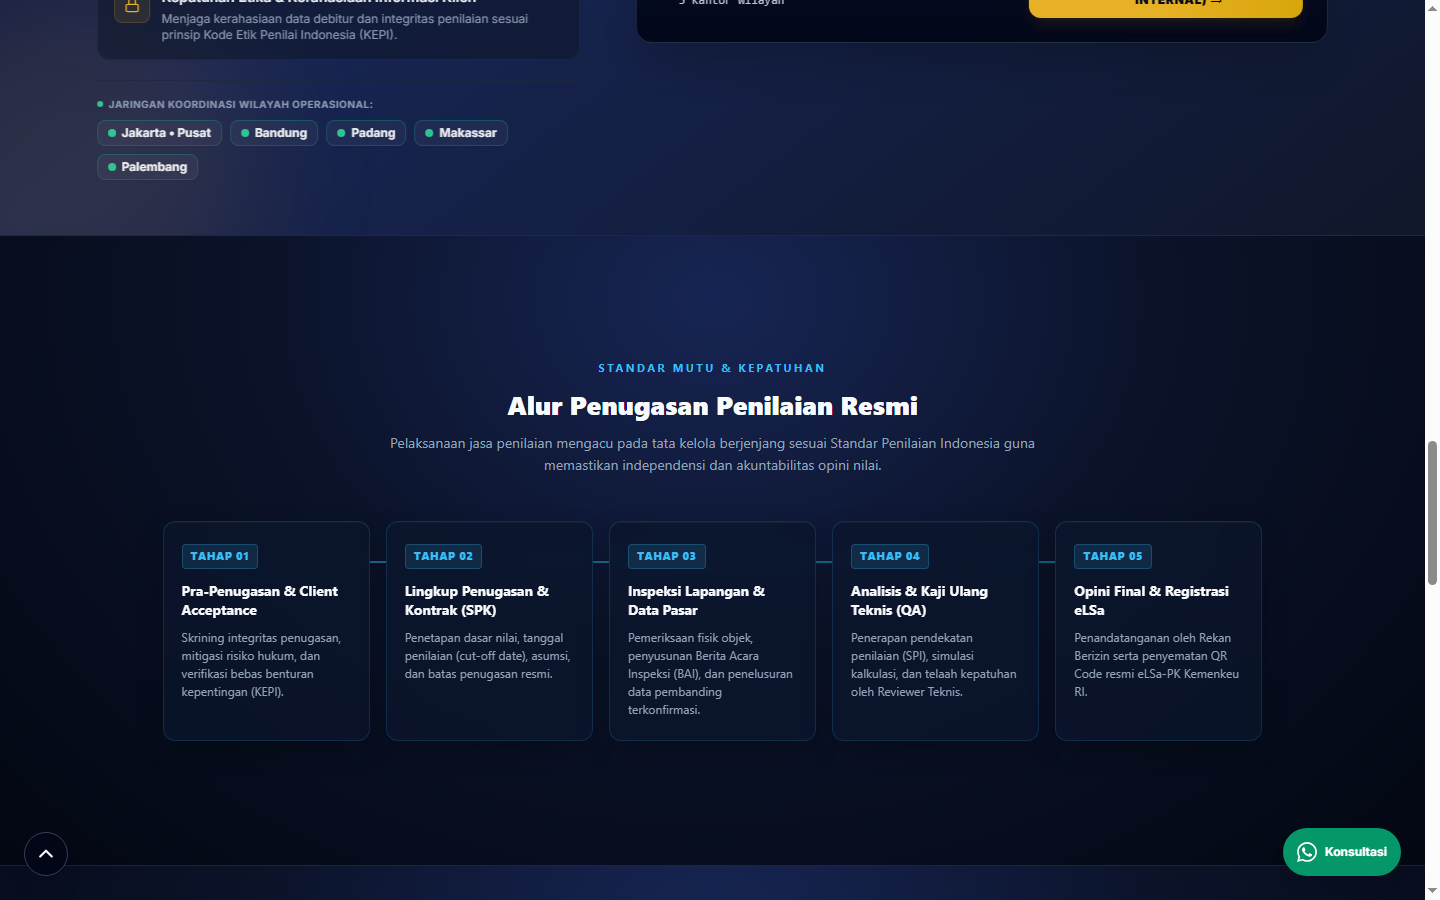
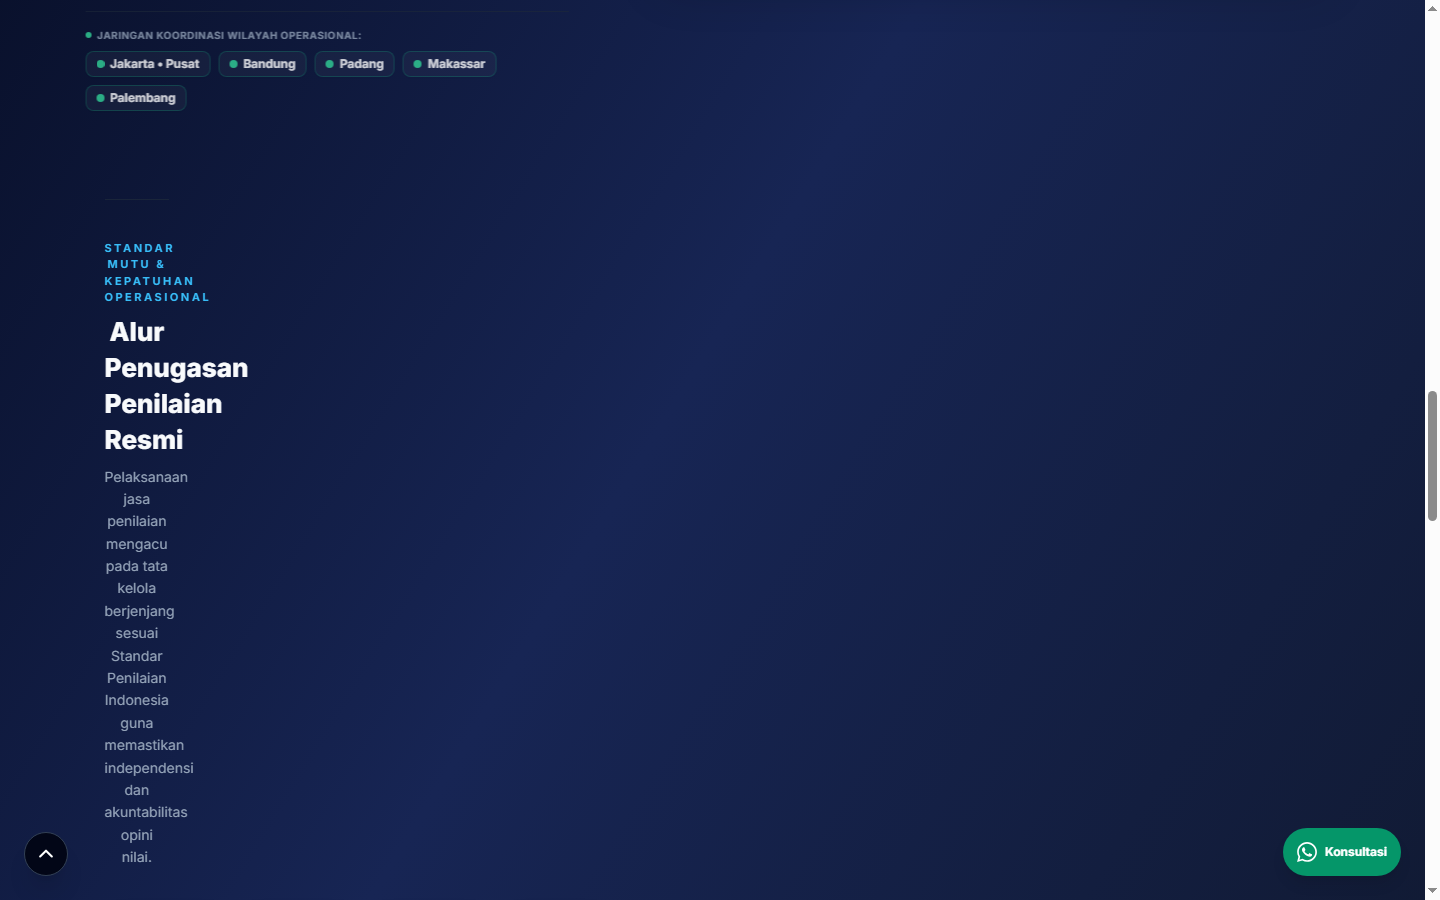
feat(compro): optimize hero urgency, align alur-penugasan-sop with OPINI NSR mutu, and add eLSa QR security accent on Tahap 05

diff --git a/index.html b/index.html
@@ -1639,26 +1639,29 @@
 
           </nav>
 
-          <!-- Action Buttons Bar: Kontak & Portal Internal Eksklusif -->
-          <div class="flex items-center gap-3 shrink-0">
+          <!-- Action Buttons Bar: Kontak, CTA Penawaran & Portal Internal [SOP] -->
+          <div class="flex items-center gap-2.5 sm:gap-3 shrink-0">
+            <!-- CTA Primer Pengunjung Eksternal: Minta Proposal & Penawaran -->
+            <button onclick="bukaModal('modal-rfp')" class="inline-flex items-center gap-1.5 px-3.5 py-2 rounded-lg bg-gradient-to-r from-amber-400 via-amber-500 to-yellow-500 hover:from-amber-300 hover:to-yellow-400 text-slate-950 text-xs font-black shadow-md shadow-amber-500/25 hover:shadow-lg hover:shadow-amber-400/40 hover:scale-[1.02] active:scale-[0.98] transition-all duration-200 border border-amber-300/80 shrink-0 whitespace-nowrap cursor-pointer" title="Minta Proposal &amp; Penawaran Penilaian Resmi">
+              <span>Minta Penawaran</span>
+              <svg class="w-3.5 h-3.5 text-slate-950 shrink-0" fill="none" stroke="currentColor" viewBox="0 0 24 24"><path stroke-linecap="round" stroke-linejoin="round" stroke-width="2.5" d="M14 5l7 7m0 0l-7 7m7-7H3"/></svg>
+            </button>
             <!-- Tombol Menu Lacak Penugasan (Aksen Amber Elegan) -->
-            <a href="#lacak-penugasan" onclick="scrollKeLacakPenugasan(event)" class="inline-flex items-center gap-1.5 px-3 py-2 rounded-lg bg-amber-500/10 hover:bg-amber-500/20 text-amber-400 hover:text-amber-300 border border-amber-500/30 hover:border-amber-400/50 transition-all text-xs font-bold tracking-wide group shadow-sm shadow-amber-500/10 cursor-pointer" title="Lacak Progres Penugasan Penilaian 7 Milestone">
+            <a href="#lacak-penugasan" onclick="scrollKeLacakPenugasan(event)" class="hidden md:inline-flex items-center gap-1.5 px-3 py-2 rounded-lg bg-amber-500/10 hover:bg-amber-500/20 text-amber-400 hover:text-amber-300 border border-amber-500/30 hover:border-amber-400/50 transition-all text-xs font-bold tracking-wide group shadow-sm shadow-amber-500/10 cursor-pointer" title="Lacak Progres Penugasan Penilaian 7 Milestone">
               <svg class="w-3.5 h-3.5 text-amber-400 group-hover:scale-110 transition-transform" fill="none" viewBox="0 0 24 24" stroke="currentColor"><path stroke-linecap="round" stroke-linejoin="round" stroke-width="2.5" d="M21 21l-6-6m2-5a7 7 0 11-14 0 7 7 0 0114 0z"/></svg>
               <span>Lacak Penugasan</span>
             </a>
-            <a href="#kontak" class="px-3 py-2 rounded-lg text-slate-300 hover:text-white hover:bg-slate-800/70 transition text-xs font-semibold">
+            <a href="#kontak" class="hidden sm:inline-block px-2.5 py-2 rounded-lg text-slate-300 hover:text-white hover:bg-slate-800/70 transition text-xs font-semibold">
               Kontak
             </a>
+            <!-- Tombol Utilitas Portal Internal Staff [SOP] (Tenang, Profesional & Terarah) -->
             <button onclick="bukaModalPortal()" 
-              class="relative inline-flex items-center gap-2 px-4 py-2 rounded-lg bg-gradient-to-r from-amber-400 via-amber-300 to-yellow-400 hover:from-amber-300 hover:to-yellow-300 text-slate-950 text-xs font-black shadow-md shadow-amber-500/25 hover:shadow-lg hover:shadow-amber-400/40 hover:scale-[1.02] active:scale-[0.98] transition-all duration-200 border border-amber-300/80 shrink-0 whitespace-nowrap group cursor-pointer" 
+              class="inline-flex items-center gap-1.5 px-2.5 py-2 rounded-lg bg-slate-900/90 hover:bg-slate-800 text-slate-300 hover:text-white border border-slate-700/80 hover:border-slate-600 text-xs font-medium transition shrink-0 whitespace-nowrap cursor-pointer" 
               title="Portal Internal, Dokumen Mutu, Nolap, Kwitansi &amp; SOP Cabang KJPP NSR">
-              <span class="relative flex h-2 w-2 shrink-0">
-                <span class="animate-ping absolute inline-flex h-full w-full rounded-full bg-emerald-600 opacity-75"></span>
-                <span class="relative inline-flex rounded-full h-2 w-2 bg-emerald-700"></span>
-              </span>
-              <svg class="w-3.5 h-3.5 text-slate-950 shrink-0 group-hover:rotate-12 transition-transform duration-200" xmlns="http://www.w3.org/2000/svg" viewBox="0 0 24 24" fill="none" stroke="currentColor" stroke-width="2.5" stroke-linecap="round" stroke-linejoin="round"><rect width="18" height="11" x="3" y="11" rx="2" ry="2"/><path d="M7 11V7a5 5 0 0 1 10 0v4"/></svg>
-              <span class="tracking-wide">OPINI NSR</span>
-              <span class="inline-flex items-center px-1.5 py-0.5 text-[9px] font-black uppercase rounded bg-slate-950/15 text-slate-950 tracking-tight">SOP</span>
+              <svg class="w-3.5 h-3.5 text-slate-400" xmlns="http://www.w3.org/2000/svg" viewBox="0 0 24 24" fill="none" stroke="currentColor" stroke-width="2" stroke-linecap="round" stroke-linejoin="round"><rect width="18" height="11" x="3" y="11" rx="2" ry="2"/><path d="M7 11V7a5 5 0 0 1 10 0v4"/></svg>
+              <span class="hidden xl:inline">Portal Internal</span>
+              <span class="inline xl:hidden">Portal</span>
+              <span class="inline-flex items-center px-1.5 py-0.2 text-[9px] font-bold uppercase rounded bg-slate-800 text-amber-300 border border-amber-400/30">SOP</span>
             </button>
           </div>
 
@@ -1739,16 +1742,16 @@
         </div>
       </div>
 
-      <!-- Quick Action Buttons: Portal Internal & Kontak -->
+      <!-- Quick Action Buttons: CTA Penawaran, Portal Internal [SOP] & Kontak -->
       <div class="pt-2 space-y-2">
-        <button type="button" onclick="bukaModalPortal(); toggleMobileMenu();" class="w-full py-2.5 px-4 rounded-xl bg-gradient-to-r from-amber-400 via-amber-300 to-yellow-400 text-slate-950 font-black text-center flex items-center justify-center gap-2 shadow-md shadow-amber-500/20 active:scale-[0.98] transition cursor-pointer">
-          <span class="relative flex h-2 w-2 shrink-0">
-            <span class="animate-ping absolute inline-flex h-full w-full rounded-full bg-emerald-600 opacity-75"></span>
-            <span class="relative inline-flex rounded-full h-2 w-2 bg-emerald-700"></span>
-          </span>
-          <svg class="w-4 h-4 text-slate-950 shrink-0" xmlns="http://www.w3.org/2000/svg" viewBox="0 0 24 24" fill="none" stroke="currentColor" stroke-width="2.5" stroke-linecap="round" stroke-linejoin="round"><rect width="18" height="11" x="3" y="11" rx="2" ry="2"/><path d="M7 11V7a5 5 0 0 1 10 0v4"/></svg>
-          <span class="tracking-wide">OPINI NSR &bull; Portal Internal</span>
+        <button type="button" onclick="bukaModal('modal-rfp'); toggleMobileMenu();" class="w-full py-2.5 px-4 rounded-xl bg-gradient-to-r from-amber-400 via-amber-500 to-yellow-500 text-slate-950 font-black text-center flex items-center justify-center gap-2 shadow-md shadow-amber-500/20 active:scale-[0.98] transition cursor-pointer">
+          <svg class="w-4 h-4 text-slate-950 shrink-0" fill="none" stroke="currentColor" viewBox="0 0 24 24"><path stroke-linecap="round" stroke-linejoin="round" stroke-width="2.5" d="M14 5l7 7m0 0l-7 7m7-7H3"/></svg>
+          <span class="tracking-wide">Minta Proposal &amp; Penawaran</span>
           <span class="inline-flex items-center px-1.5 py-0.5 text-[10px] font-black uppercase rounded bg-slate-950/15 text-slate-900">&rarr;</span>
+        </button>
+        <button type="button" onclick="bukaModalPortal(); toggleMobileMenu();" class="w-full py-2 px-4 rounded-xl bg-slate-900 hover:bg-slate-800 text-slate-200 font-semibold text-center flex items-center justify-center gap-2 border border-slate-700/80 active:scale-[0.98] transition cursor-pointer">
+          <svg class="w-4 h-4 text-slate-400 shrink-0" xmlns="http://www.w3.org/2000/svg" viewBox="0 0 24 24" fill="none" stroke="currentColor" stroke-width="2" stroke-linecap="round" stroke-linejoin="round"><rect width="18" height="11" x="3" y="11" rx="2" ry="2"/><path d="M7 11V7a5 5 0 0 1 10 0v4"/></svg>
+          <span>Portal Internal [SOP &amp; Mutu]</span>
         </button>
         <a href="#lacak-penugasan" onclick="scrollKeLacakPenugasan(event); toggleMobileMenu();" class="w-full py-2.5 px-4 rounded-xl bg-amber-500/15 text-amber-300 hover:bg-amber-500/25 border border-amber-500/40 font-bold text-center flex items-center justify-center gap-2 active:scale-[0.98] transition cursor-pointer">
           <svg class="w-4 h-4 text-amber-400" fill="none" viewBox="0 0 24 24" stroke="currentColor"><path stroke-linecap="round" stroke-linejoin="round" stroke-width="2.5" d="M21 21l-6-6m2-5a7 7 0 11-14 0 7 7 0 0114 0z"/></svg>
@@ -1817,7 +1820,7 @@
               <polyline points="7 10 12 15 17 10"/>
               <line x1="12" x1="12" y1="15" y2="3"/>
             </svg>
-            <span>Unduh Company Profile</span>
+            <span>Unduh Compro (PDF)</span>
           </a>
           <a href="/portofolio-rekanan.html" id="hero-btn-portofolio" class="group inline-flex items-center gap-1.5 px-3 py-2.5 text-slate-300 hover:text-sky-300 font-semibold text-xs sm:text-sm transition" title="Buka Portofolio dan Rekanan KJPP NSR">
             <span>Lihat Portofolio</span>
@@ -2755,6 +2758,65 @@
             </div>
           </div>
         </div>
+
+        <!-- ==================== 1. ALUR PENUGASAN PENILAIAN RESMI (INTERACTIVE LINEAR PROCESS TRACK) ==================== -->
+        <div id="alur-penugasan-sop" aria-label="Standard Operating Procedure Alur Penugasan Penilaian Resmi" class="mt-12 pt-10 border-t border-slate-800/80 relative scroll-mt-20">
+          <div class="nsr-header-title text-center mb-10">
+            <span class="nsr-tagline text-[11px] uppercase tracking-[2.5px] text-sky-400 font-bold mb-2 block">Standar Mutu &amp; Kepatuhan Operasional</span>
+            <h3 class="nsr-title text-2xl sm:text-3xl text-white font-extrabold m-0">Alur Penugasan Penilaian Resmi</h3>
+            <p class="nsr-desc text-xs sm:text-sm text-slate-400 mt-2 max-w-2xl mx-auto leading-relaxed">Pelaksanaan jasa penilaian mengacu pada tata kelola berjenjang sesuai Standar Penilaian Indonesia guna memastikan independensi dan akuntabilitas opini nilai.</p>
+          </div>
+          
+          <div class="nsr-flow-track relative">
+            <!-- Animated gradient connector line on desktop -->
+            <div class="nsr-flow-line" aria-hidden="true"></div>
+
+            <div class="nsr-flow-grid">
+              <!-- Tahap 01 -->
+              <div class="nsr-flow-card">
+                <div class="nsr-flow-num">TAHAP 01</div>
+                <h4>Pra-Penugasan &amp; Client Acceptance</h4>
+                <p>Skrining integritas penugasan, mitigasi risiko hukum, dan verifikasi bebas benturan kepentingan (KEPI).</p>
+              </div>
+              <!-- Tahap 02 -->
+              <div class="nsr-flow-card">
+                <div class="nsr-flow-num">TAHAP 02</div>
+                <h4>Lingkup Penugasan &amp; Kontrak (SPK)</h4>
+                <p>Penetapan dasar nilai, tanggal penilaian (cut-off date), asumsi, dan batas penugasan resmi.</p>
+              </div>
+              <!-- Tahap 03 -->
+              <div class="nsr-flow-card">
+                <div class="nsr-flow-num">TAHAP 03</div>
+                <h4>Inspeksi Lapangan &amp; Data Pasar</h4>
+                <p>Pemeriksaan fisik objek, penyusunan Berita Acara Inspeksi (BAI), dan penelusuran data pembanding terkonfirmasi.</p>
+              </div>
+              <!-- Tahap 04 -->
+              <div class="nsr-flow-card">
+                <div class="nsr-flow-num">TAHAP 04</div>
+                <h4>Analisis &amp; Kaji Ulang Teknis (QA)</h4>
+                <p>Penerapan pendekatan penilaian (SPI), simulasi kalkulasi, dan telaah kepatuhan oleh Reviewer Teknis.</p>
+              </div>
+              <!-- Tahap 05: VERIFIKASI QR CODE eLSa-PK KEMENKEU (AKSEN KHUSUS ANTI-PEMALSUAN) -->
+              <div class="nsr-flow-card nsr-flow-card-secure">
+                <div class="flex items-center justify-between gap-1 mb-2">
+                  <div class="nsr-flow-num" style="color: #34d399; background: rgba(16, 185, 129, 0.15); border-color: rgba(16, 185, 129, 0.35); margin-bottom: 0;">TAHAP 05</div>
+                  <span class="inline-flex items-center gap-1 px-1.5 py-0.5 rounded text-[9px] font-black uppercase tracking-wider bg-emerald-500/20 text-emerald-300 border border-emerald-500/40">
+                    <span class="w-1.5 h-1.5 rounded-full bg-emerald-400 animate-pulse"></span>
+                    Anti-Pemalsuan
+                  </span>
+                </div>
+                <h4 style="color: #ecfdf5;">Opini Final &amp; Registrasi eLSa</h4>
+                <p style="color: #cbd5e1;">Penandatanganan oleh Rekan Berizin serta penyematan <strong>QR Code resmi eLSa-PK Kemenkeu RI</strong>.</p>
+                <div class="mt-3 pt-2.5 border-t border-emerald-500/25 flex items-center gap-1.5 text-[10px] font-bold text-emerald-300">
+                  <svg class="w-3.5 h-3.5 text-emerald-400 shrink-0" fill="none" viewBox="0 0 24 24" stroke="currentColor" stroke-width="2.5">
+                    <path stroke-linecap="round" stroke-linejoin="round" d="M9 12.75L11.25 15 15 9.75m-3-7.036A11.959 11.959 0 013.598 6 11.99 11.99 0 003 9.749c0 5.592 3.824 10.29 9 11.623 5.176-1.332 9-6.03 9-11.622 0-1.31-.21-2.571-.598-3.751h-.152c-3.196 0-6.1-1.248-8.25-3.285z" />
+                  </svg>
+                  <span>Verifikasi Keabsahan Statutori Kemenkeu RI</span>
+                </div>
+              </div>
+            </div>
+          </div>
+        </div>
       </div>
     </div>
   </div>
@@ -3324,6 +3386,16 @@
     transform: translateY(-5px); border-color: #38bdf8;
     box-shadow: 0 14px 34px -10px rgba(14, 165, 233, 0.3), inset 0 1px 0 rgba(255, 255, 255, 0.08);
   }
+  .nsr-flow-card.nsr-flow-card-secure {
+    background: linear-gradient(145deg, rgba(6, 78, 59, 0.5) 0%, rgba(11, 21, 44, 0.88) 55%, rgba(15, 23, 42, 0.95) 100%);
+    border: 1.5px solid rgba(16, 185, 129, 0.55);
+    box-shadow: 0 10px 30px -10px rgba(16, 185, 129, 0.35), inset 0 1px 0 rgba(255, 255, 255, 0.08);
+  }
+  .nsr-flow-card.nsr-flow-card-secure:hover {
+    transform: translateY(-5px);
+    border-color: #34d399;
+    box-shadow: 0 16px 36px -10px rgba(16, 185, 129, 0.5), inset 0 1px 0 rgba(255, 255, 255, 0.15);
+  }
   .nsr-flow-num { font-size: 11px; font-weight: 800; color: #38bdf8; background: rgba(56, 189, 248, 0.12); border: 1px solid rgba(56, 189, 248, 0.25); display: inline-block; padding: 3px 8px; border-radius: 4px; margin-bottom: 12px; width: fit-content; letter-spacing: 0.5px; }
   .nsr-flow-card h4 { font-size: 14px; font-weight: 700; color: #f8fafc; margin: 0 0 8px 0; line-height: 1.4; }
   .nsr-flow-card p { font-size: 12px; color: #94a3b8; margin: 0; line-height: 1.5; }
@@ -3400,55 +3472,6 @@
     .nsr-reg-link { align-self: flex-start; margin-top: 8px; }
   }
 </style>
-
-<!-- ==================== 1. ALUR PENUGASAN PENILAIAN RESMI (INTERACTIVE LINEAR PROCESS TRACK) ==================== -->
-<section id="alur-penugasan-sop" aria-label="Standard Operating Procedure Alur Penugasan Penilaian Resmi" class="py-14 sm:py-16 text-white border-b border-slate-800/80 relative overflow-hidden scroll-mt-20 nsr-midnight-bg">
-  <div class="nsr-section">
-    <div class="nsr-header-title">
-      <span class="nsr-tagline">Standar Mutu &amp; Kepatuhan</span>
-      <h3 class="nsr-title">Alur Penugasan Penilaian Resmi</h3>
-      <p class="nsr-desc">Pelaksanaan jasa penilaian mengacu pada tata kelola berjenjang sesuai Standar Penilaian Indonesia guna memastikan independensi dan akuntabilitas opini nilai.</p>
-    </div>
-    
-    <div class="nsr-flow-track">
-      <!-- Animated gradient connector line on desktop -->
-      <div class="nsr-flow-line" aria-hidden="true"></div>
-
-      <div class="nsr-flow-grid">
-        <!-- Tahap 01 -->
-        <div class="nsr-flow-card">
-          <div class="nsr-flow-num">TAHAP 01</div>
-          <h4>Pra-Penugasan &amp; Client Acceptance</h4>
-          <p>Skrining integritas penugasan, mitigasi risiko hukum, dan verifikasi bebas benturan kepentingan (KEPI).</p>
-        </div>
-        <!-- Tahap 02 -->
-        <div class="nsr-flow-card">
-          <div class="nsr-flow-num">TAHAP 02</div>
-          <h4>Lingkup Penugasan &amp; Kontrak (SPK)</h4>
-          <p>Penetapan dasar nilai, tanggal penilaian (cut-off date), asumsi, dan batas penugasan resmi.</p>
-        </div>
-        <!-- Tahap 03 -->
-        <div class="nsr-flow-card">
-          <div class="nsr-flow-num">TAHAP 03</div>
-          <h4>Inspeksi Lapangan &amp; Data Pasar</h4>
-          <p>Pemeriksaan fisik objek, penyusunan Berita Acara Inspeksi (BAI), dan penelusuran data pembanding terkonfirmasi.</p>
-        </div>
-        <!-- Tahap 04 -->
-        <div class="nsr-flow-card">
-          <div class="nsr-flow-num">TAHAP 04</div>
-          <h4>Analisis &amp; Kaji Ulang Teknis (QA)</h4>
-          <p>Penerapan pendekatan penilaian (SPI), simulasi kalkulasi, dan telaah kepatuhan oleh Reviewer Teknis.</p>
-        </div>
-        <!-- Tahap 05 -->
-        <div class="nsr-flow-card">
-          <div class="nsr-flow-num">TAHAP 05</div>
-          <h4>Opini Final &amp; Registrasi eLSa</h4>
-          <p>Penandatanganan oleh Rekan Berizin serta penyematan QR Code resmi eLSa-PK Kemenkeu RI.</p>
-        </div>
-      </div>
-    </div>
-  </div>
-</section>
 
 <!-- ==================== 2. KAJIAN TEKNIS SPI (EXECUTIVE RESEARCH CARDS) ==================== -->
 <section id="litbang-metodologi" aria-label="Litbang KJPP NSR: Kajian Teknis & Warta Metodologi SPI" class="py-14 sm:py-16 text-white relative border-b border-slate-800/80 scroll-mt-20 nsr-midnight-bg">
@@ -7975,7 +7998,7 @@
         { key: 'kantor', panelId: 'tab-panel-kantor', btnId: 'tab-btn-kantor' }
       ];
 
-      if (kunci === 'sistem-mutu' || kunci === 'cloud') kunci = 'mutu';
+      if (kunci === 'sistem-mutu' || kunci === 'cloud' || kunci === 'alur-penugasan-sop') kunci = 'mutu';
       if (kunci === 'kontak') kunci = 'kantor';
 
       tabList.forEach(t => {
